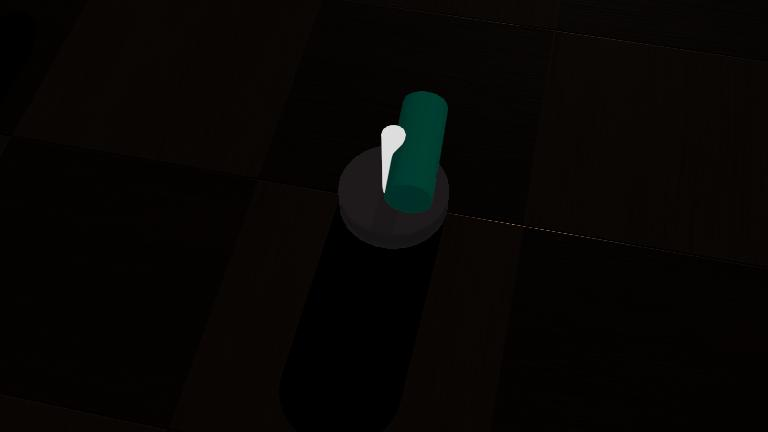
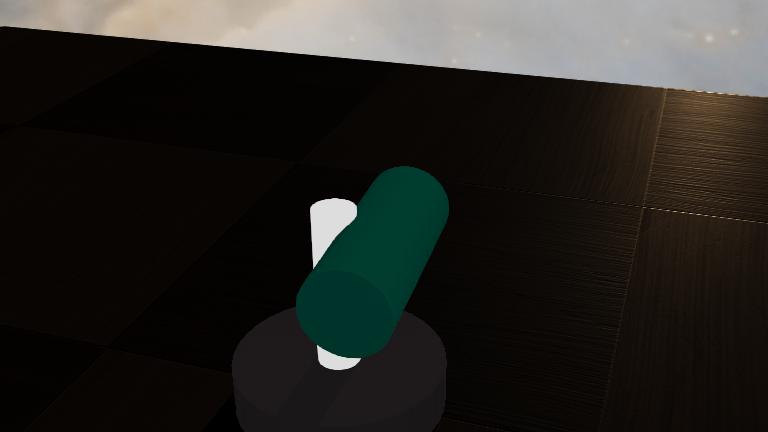
maj

diff --git a/controllers/stepper_motor/stepper_motor.py b/controllers/stepper_motor/stepper_motor.py
@@ -16,29 +16,30 @@ def wait_webots(ms):
         if robot.getTime() - start_time >= ms / 1000.0:
             break
 DEG_PAR_PAS=0.01
+current_ang=0
 
 def Step(x, steps_per_rev=200):
+    global current_ang
     # On lit la position réelle au moment T
-    current = sensor.getValue()
+    current = current_ang
     angle_a_ajouter = x * math.pi/180*DEG_PAR_PAS
     nouvelle_cible = current + angle_a_ajouter
     
     motor.setPosition(nouvelle_cible)
+    print("Valeur théorique : ", round(current*180/math.pi,5),"Valeur réelle : ", sensor.getValue()*180/math.pi)
+    current_ang=nouvelle_cible
+
     print(f"Pas effectué. Nouvelle cible : {math.degrees(nouvelle_cible):.2f}°")
 
 # Initialisation
 robot.step(timestep)
-motor.setVelocity(5)
+motor.setVelocity(0.5)
 
 while robot.step(timestep) != -1:
     # Faire 50 pas un par un vers l'avant
     print("Début séquence avant...")
     for i in range(9000):
         Step(1)
-        wait_webots(0.5) # Remplace time.sleep(0.25)
+        wait_webots(500) # Remplace time.sleep(0.25)
         
-    # Faire 50 pas un par un vers l'arrière
-    print("Début séquence arrière...")
-    for i in range(9000):
-        Step(-1)
-        wait_webots(0.5)
+    

diff --git a/worlds/Gears/controllers/gears/gears.c b/worlds/Gears/controllers/gears/gears.c
@@ -35,14 +35,13 @@ int main(int argc, char **argv) {
   wb_position_sensor_enable(sensor, TIME_STEP);
 
   while (wb_robot_step(TIME_STEP) != -1) {
-    double pos = wb_position_sensor_get_value(sensor);
+    float pos = wb_position_sensor_get_value(sensor);
 
-    if (pos >= M_PI / 4)
-      wb_motor_set_velocity(motor, -0.8);
-    if (pos <= -M_PI / 4)
-      wb_motor_set_velocity(motor, 0.8);
-  }
-
+    wb_motor_set_velocity(motor,2);
+    //print("f{pos}");
+     
+   
+}
   wb_robot_cleanup();
 
   return 0;

diff --git a/controllers/GoTo2-cameraTrack/GoTo2-cameraTrack.py b/controllers/GoTo2-cameraTrack/GoTo2-cameraTrack.py
@@ -7,7 +7,7 @@ import astropy.units as u
 # ==========================================
 # CONFIGURATION
 # ==========================================
-TARGET_BODY = "jupiter" 
+TARGET_BODY = "uranus" 
 LOCATION = EarthLocation(lat=48.5720219, lon=7.766944, height=35*u.m)
 
 SENS_AZ = 1      
@@ -137,7 +137,7 @@ while robot.step(timestep) != -1:
         
         prev_errs_t["az"], prev_errs_t["alt"] = err_az, err_alt
 
-        if (temps_simu - debut_tracking_astro) > 30.0:
+        if (temps_simu - debut_tracking_astro) > 20.0:
             state = "TRACKING_VISUEL"
 
     # ==========================================